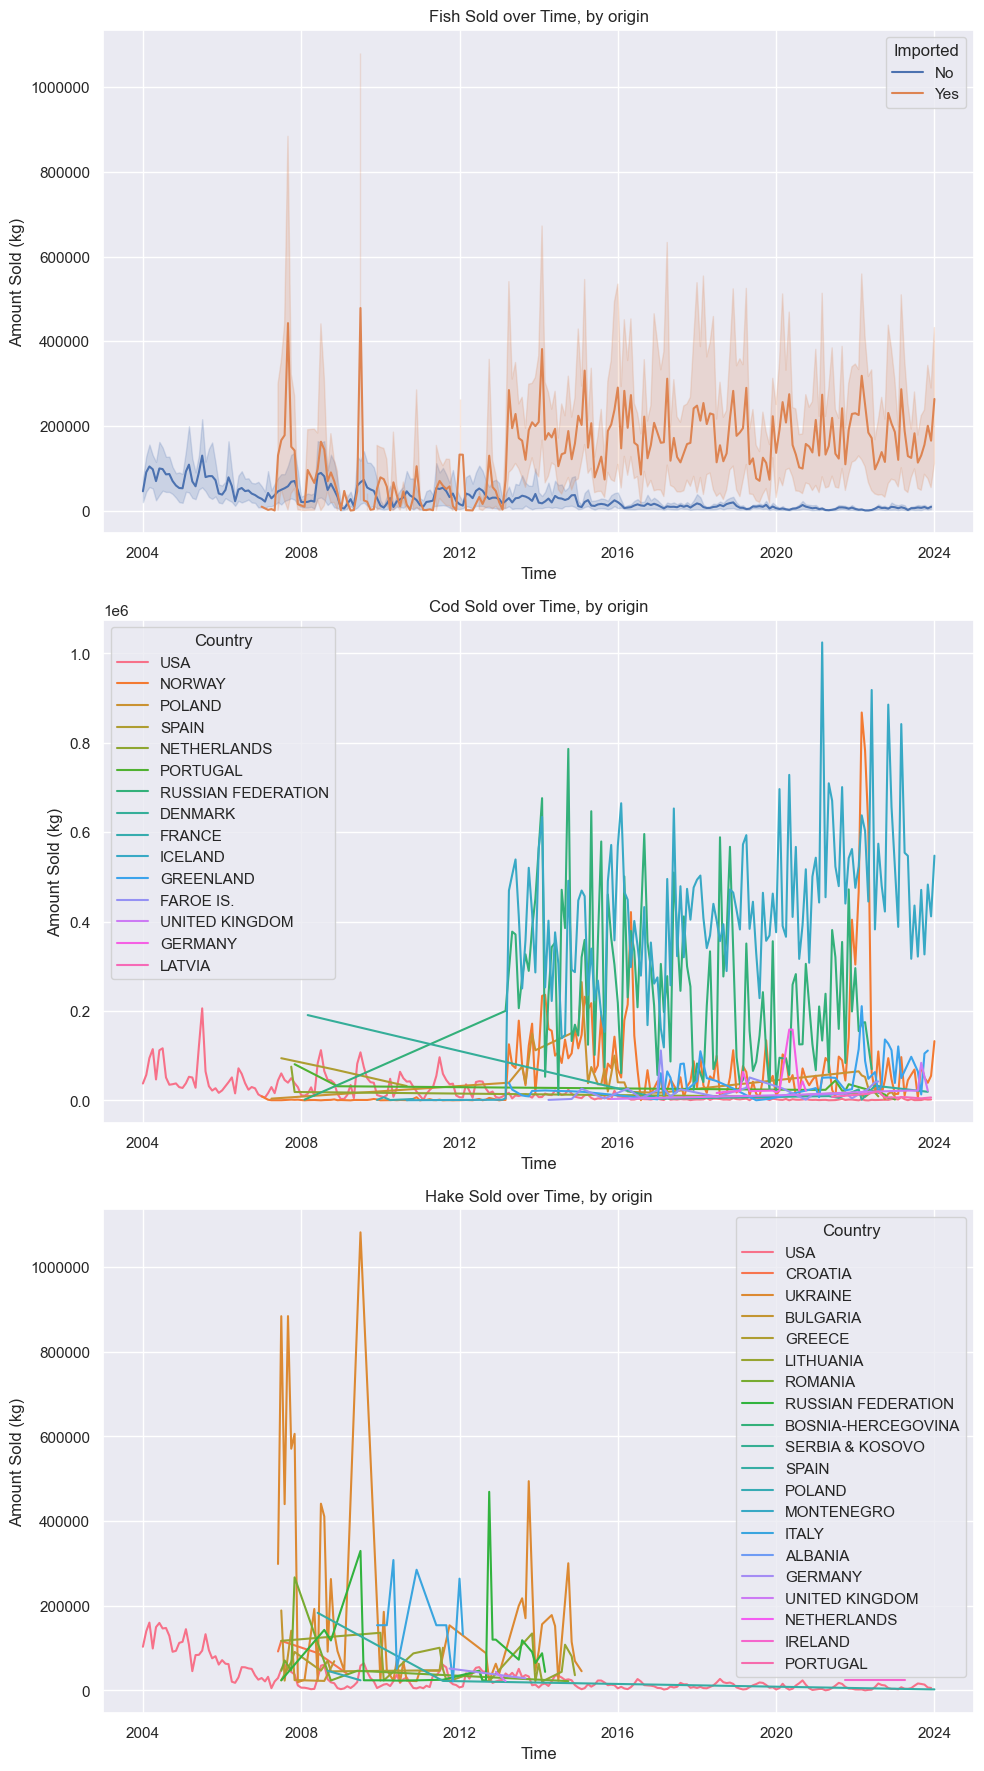
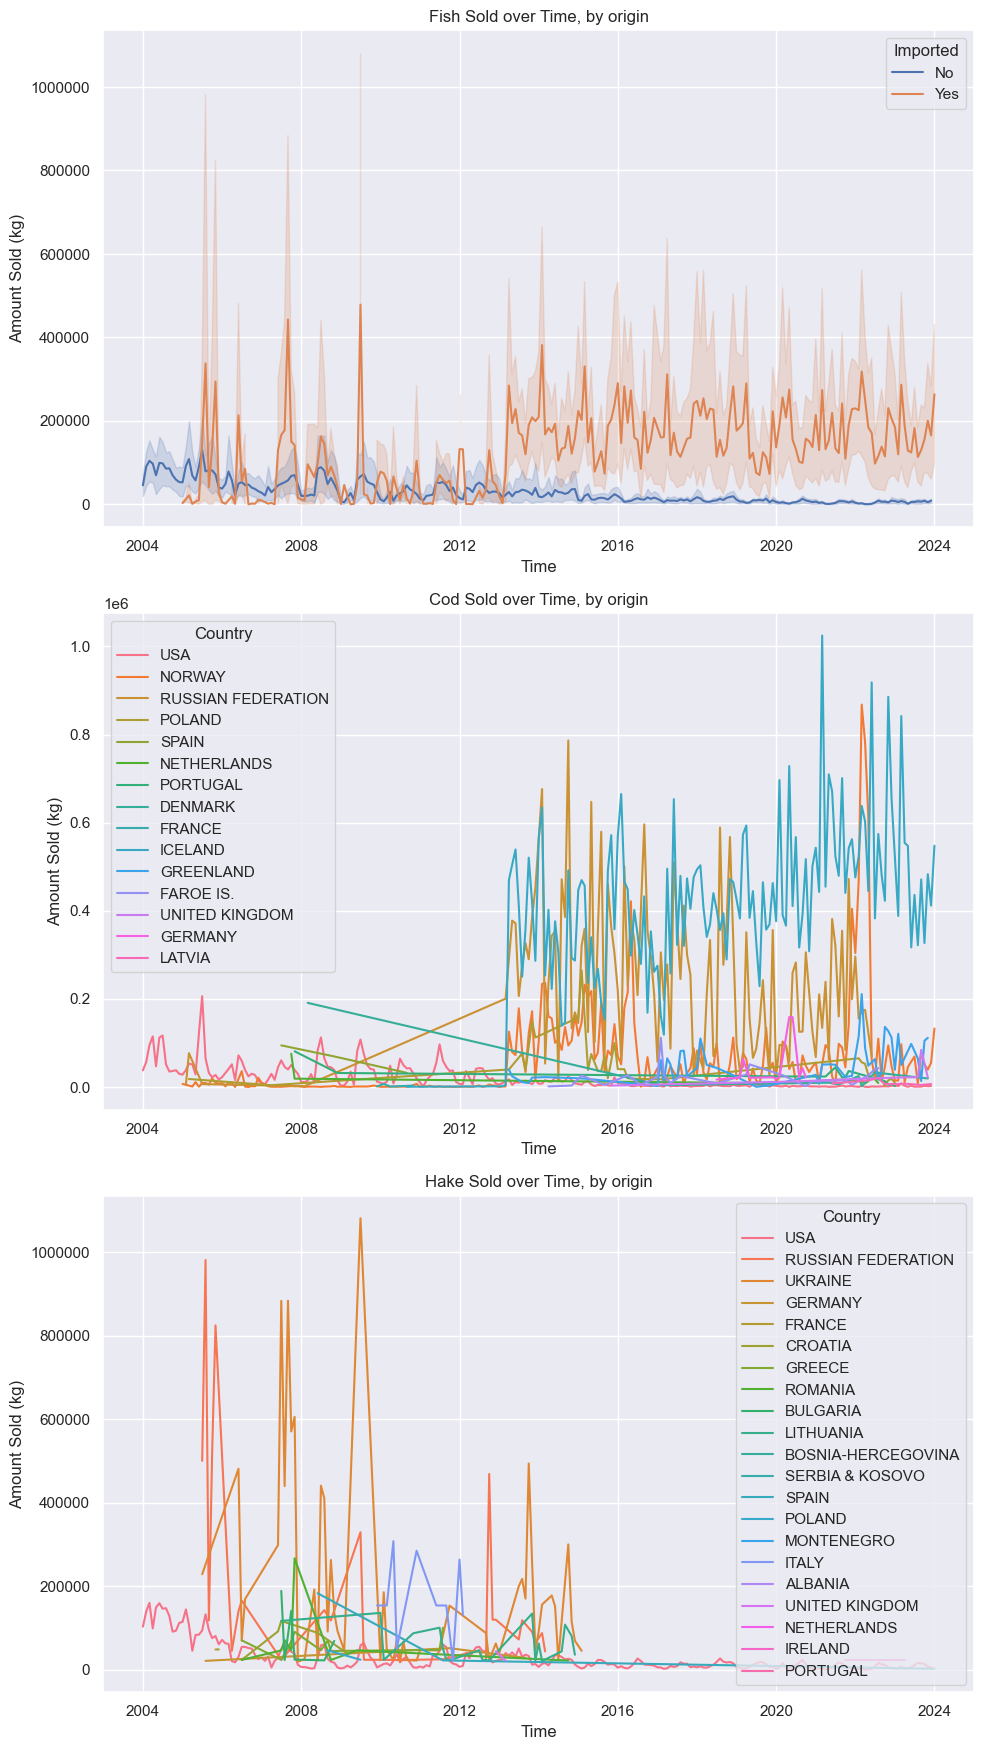
Update2.2: Starting EDA markdown file.

diff --git a/src/data_utils.py b/src/data_utils.py
@@ -26,7 +26,7 @@ def get_noaa_data(api_key='klHRkURJrqCrXMZEtjPoSWwckiYazQFS', url='https://apps-
     # no specific query given as arg, proceed with default query
     if query == None:
         query = '''{
-            "year":{"$gt": 2006},
+            "year":{"$gt": 2004},
             "name":{"$like":"%GROUNDFISH%"}, 
             "custom_district_name":{"$like":"%PORTLAND%"}, 
             "continent":{"$like":"%EU%"}
@@ -57,7 +57,7 @@ def get_noaa_data(api_key='klHRkURJrqCrXMZEtjPoSWwckiYazQFS', url='https://apps-
     df['date'] = pd.to_datetime(df['year'].astype(str) + '-' + df['month'].astype(str), format='%Y-%m')
 
     # save to csv and print filepath
-    filepath = "data/noaa_2006-2024.csv"
+    filepath = "data/noaa_2004-2024.csv"
     df.to_csv(filepath, index=False)
     print(f'Data saved to: {filepath}')
 
@@ -196,7 +196,7 @@ def merge_data():
     # Concatenate the dataframes
     combined_df = pd.concat([local_df, imports_df], ignore_index=True)  
 
-    filepath = "data/combined_data_2006-2024.csv"
+    filepath = "data/combined_data_2004-2024.csv"
     combined_df.to_csv(filepath, index=False) 
     print(f'Combined data saved at: {filepath}')
 

diff --git a/src/eda_utils.py b/src/eda_utils.py
@@ -93,7 +93,8 @@ def preprocess_data(df):
     df_agg['Imported'] = np.where(df_agg['Country'] != 'USA', 'Yes', 'No')
 
     # drop outliers
-
+    print("OUTLIERS:")
+    print(df_agg[df_agg['AvgPrice_per_Kilo'] > 40])
     df_agg = df_agg[df_agg['AvgPrice_per_Kilo'] <= 40]
 
 
@@ -167,7 +168,8 @@ def amnt_sold_by_species_barplots(df):
 
 
     # plot dist per year
-    sns.barplot(data=df, x='Year', y='AmountSold_by_Kilo', hue='FishGroup', ax=axs[1])
+    sns.barplot(data=df, x='Year', y='AmountSold_by_Kilo', hue='FishGroup', ax=axs[1], 
+                dodge=True, estimator='sum', errorbar=None)
     axs[1].set_xlabel('Year')
     axs[1].set_ylabel('Amount Sold (kg)')
     axs[1].set_title('Total Amount Sold, by species')

diff --git a/EDA.md b/EDA.md
@@ -1,0 +1,210 @@
+# EDA
+Date: 3/11/2024  
+
+**Project:** GMRI  
+**Team:** 
+* Ned Hallahan (NedHallahan)
+* Josh Nougaret (jnougaret)
+* Michael Massone (mmkke) - Team Lead
+
+
+
+
+
+# Data Retrieval:
+
+Data for the following was retrieved from two sources and merged into a single dataframe.  
+
+### Imported
+
+Records of imported fish were obtained from the NOAA FIsheries: Foreign Trade Data. 
+
+Database information: https://www.fisheries.noaa.gov/national/sustainable-fisheries/foreign-fishery-trade-data
+
+Database GUI: https://www.fisheries.noaa.gov/foss/f?p=215:2:5473541341067
+
+Record were obtained directly from NOAA via their API. 
+
+Records included all imports from countries within the conitnet of Europe to Portland, ME of 'Groundfish' species from 2004 onward. 
+
+API query:
+
+```python
+query = '''{
+    "year":{"$gt": 2004},
+    "name":{"$like":"%GROUNDFISH%"}, 
+    "custom_district_name":{"$like":"%PORTLAND%"}, 
+    "continent":{"$like":"%EU%"}
+    }'''
+```
+Returned 5761 records.  
+
+Attributes:
+* year - Year imported.
+* month - Month imported.
+* hts_number - 
+* name - Species name.
+* fus_group_code1 - Fisheries of the United State Group Code 1.
+* fus_group_code2 - Fisheries of the United State Group Code 2.
+* fus_group1 - Fisheries of the United State Group 1.
+* fus_group2 - Fisheries of the United State Group 2.
+* cntry_code - Country code.
+* cntry_name - COuntry name.
+* continent - COnitnent of origin. 
+* fao - Food and Agriculture Orgnization
+* custom_district_code - US Customs District Code. 
+* custom_district_name - US Customs District Name. 
+* edible_code - Edible/inedible coe.
+* kilos - Weight in kilograms.
+* val - The price actually paid or payable for merchandise when sold for export to the United States, excluding U.S. import duties, freight, insurance, and other charges incurred in bringing the merchandise to the United States. 
+* source - Imported/Domestic
+* association - Regional Fishery Managment Associations
+* rfmo - Regional Fishery Management Association
+* nmfs_region_code = National Marine Fisheries Service Regions code.
+* links - API link
+* date - YYYY-MM-DD
+
+
+
+### Domestic
+
+Records of locally caught fish were obtained throught the Portland Fish Exchange's Price and Landing Tool.
+
+https://www.pfex.org/price-landing-tool/
+
+
+# Data Processing:
+
+### NOAA Data
+
+Datafrrame filtered to include only the following attributes:
+
+['kilos', 'val', 'year', 'month', 'fus_group1', 'fus_group2', 'cntry_name']  
+
+Price column was created using 'val' and 'kilos'.
+
+```python
+    imports_df.loc[:, 'Price'] = imports_df['val'] / imports_df['kilos']
+```
+
+Fus_group2 was mapped to new attibute FIshGroup via the following function:
+
+```python
+def map_fish_group(value):
+    '''Mapping function for aggregating fish species.'''
+
+    value = value.lower()  # Convert the string to lowercase for consistent comparison
+    if 'cod' in value:
+        return 'Cod'
+    elif 'haddock' in value:
+        return 'Haddock'
+    elif 'pollock' in value:
+        return 'Pollock'
+    elif 'hake' in value or 'whiting' in value:  # 'whiting' maps to 'hake'
+        return 'Hake'
+    elif 'perch' in value:  # 'perch' maps to 'redfish'
+        return 'Redfish'
+    else:
+        return 'Other'  # Assign 'Other' if none of the conditions above are met  
+```
+
+Records where FishGroup = Other where dropped from dataframe. 
+
+Lastly, columns where renamed in preparation for merge with PFEX Data:
+
+```python
+    imports_df.rename(columns={
+                                'kilos': 'AmountSold_by_Kilo',
+                                'Price': 'AvgPrice_per_Kilo',
+                                'year': 'YearNum',
+                                'month': 'MonthNum',
+                                'cntry_name': 'Country'
+                            }, inplace=True)
+```
+
+### PFEX Data
+
+
+
+### Merged Data
+
+Both NOAA and PFEX data were filterd to include only the following columns:
+
+* AmountSold_by_Kilo - Amount sold per record in kilograms.
+* AvgPrice_per_Kilo - Price in USD per kilogram.
+* YearNum - Year landed/imported.
+* MonthNum - Month landed/imported.
+* FishGroup - Fish species (Cod, Haddock, Pollock, Hake, Redfish)
+
+The dataframes were merged via pd.concat.
+
+When multiple entries for a single fish species from a single country existed during a single month period, these records where aggregated. AvgPrice_per_Kilo was determined by weighted average and AmountSold_by_Kilo by sum. The column TotalSoldAtPrice was created to aid in  aggregation and was subsequently dropped fromt the dataframe. 
+
+```python
+ df_agg = df_dt_idx.groupby(['YYYY/MM', 'FishGroup', 'Country']).agg(
+        AmountSold_by_Kilo=('AmountSold_by_Kilo', 'sum'),
+        TotalSoldAtPrice=('TotalSoldAtPrice', 'sum')
+    ).reset_index()
+```
+
+New attributes added after merge:
+
+* YYYY/MM - A datatime period object. 
+* Imported - Import status. 
+
+Outlier Filtering:
+
+```python
+df_agg = df_agg[df_agg['AvgPrice_per_Kilo'] <= 40]
+```
+This removed the following records:
+
+| YYYY/MM   | FishGroup   | Country   |   AmountSold_by_Kilo |   AvgPrice_per_Kilo | Imported   |
+|:----------|:------------|:----------|----------------------:|--------------------:|:-----------|
+| 2022-03   | Cod         | FAROE IS. |                    64 |                  75 | Yes        |
+
+
+
+
+
+
+# EDA:
+
+### Amount Sold by SPecies
+
+<img src="figs/amnt_sold_by_species_barplot.png" width="800">
+
+### Price
+
+<img src="figs/price_distribution_boxplots.png" width="800">
+
+<img src="figs/amnt_vs_price_scatterplots.png" width="800">
+
+
+### Amount Sold over Time:
+
+<img src="figs/amnt_sold_over_time_lineplot.png" width="800">
+
+
+<img src="figs/amnt_sold_over_time_by_species_lineplots.png" width="800">
+
+
+<img src="figs/amnt_sold_over_time_by_origin_lineplots.png" width="800">
+
+
+
+
+
+
+
+# Questions/Next Steps:
+
+The date range for our data can be adjusted depending on the needs of the stakeholder. What range should we be investigating?  
+
+Should we adjust our aggregation for a more granular investigation species/product type?
+
+What accounts for the increase in imported Cod and Hake around 2013. Is this an error in data retrieval/processing, or does it represent a real trend? Can we confirm with outside sources. 
+
+# Acknowlefgements
+
+*  NOAA Fisheries Office of Science and Technology, Commercial Landings Query, Available at: www.fisheries.noaa.gov/foss, Accessed 03/10/2024
